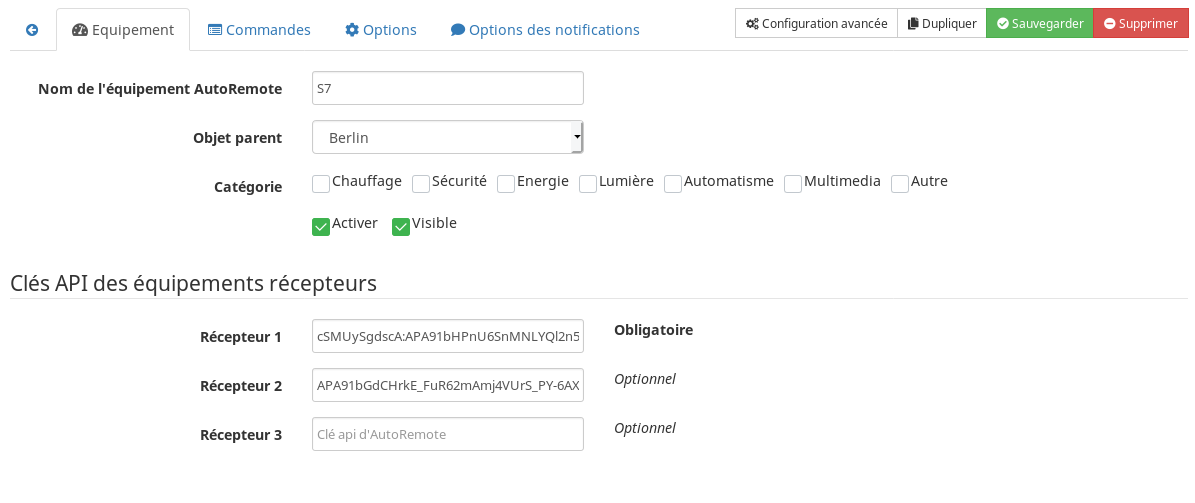
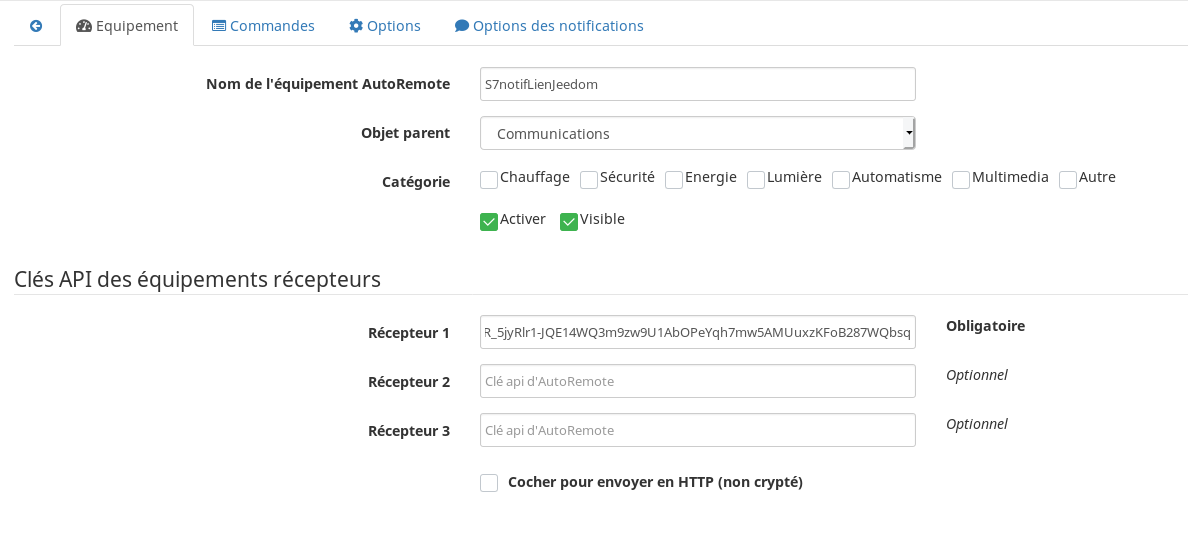
update doc and plugin info for 2.0.1 release

diff --git a/docs/fr_FR/index.md b/docs/fr_FR/index.md
@@ -3,18 +3,18 @@ Présentation et principe de fonctionnement
 
 Ce plugin vous permet de communiquer avec votre téléphone Android (ou autre équipement compatible) via le service AutoRemote.
 
-Vous pourrez ainsi envoyer des messages et les utiliser pour déclencher des actions sur votre équipement distant, grâce à Tasker,  ou vous pourrez directement envoyer une notification complètement personnalisée incluant des boutons d'actions.
+Vous pourrez ainsi envoyer des messages et les utiliser pour déclencher des actions sur votre équipement distant, grâce à Tasker, ou vous pourrez directement envoyer une notification complètement personnalisée incluant des boutons d'actions.
 
 Pour plus d'information à propos d'AutoRemote : <a href="http://joaoapps.com/autoremote/what-it-is/" target="_blank">AutoRemote</a>, et de Tasker : <a href="https://tasker.joaoapps.com/" target="_blank">Tasker</a>
 
 ![](https://raw.githubusercontent.com/AgP42/Jeedom-AutoRemote/master/docs/assets/images/Notif_1.jpg)
 ![](https://raw.githubusercontent.com/AgP42/Jeedom-AutoRemote/master/docs/assets/images/Notif_2.jpg)
 
-Le principe de fonctionnement du plugin est le suivant : 
+Le principe de fonctionnement du plugin est le suivant :
 
-- Chaque client contient les commandes "Envoyer un message" et "Envoyer une notification" avec des options spécifiques. 
+- Chaque client contient les commandes "Envoyer un message" et "Envoyer une notification" avec des options spécifiques.
 - Chaque client peut adresser ces messages à jusqu'à 3 destinataires pour chaque commande.
-- Les options peuvent être considerées comme des "valeurs par défaut", permettant de ne pas devoir les redéfinir à chaque fois qu'on utilise la commande (message ou notification) de ce client. 
+- Les options peuvent être considérées comme des "valeurs par défaut", permettant de ne pas devoir les redéfinir à chaque fois qu'on utilise la commande (message ou notification) de ce client.
 - A chaque utilisation d'une commande, il est possible "d'écraser" les valeurs par défaut en utilisant la synthaxe d'AutoRemote directement dans le champ "message" (voir les exemples à la fin)
 - Il est évidemment possible de définir une multitude de clients, chacun pouvant utiliser la même clef API pour envoyer des messages aux mêmes destinaires, mais avec des options pré-définies différentes.
 
@@ -24,8 +24,8 @@ Dans les messages et dans les notifications, il est possible de définir des act
 Installation du plugin via Github
 =================================
 
-1. Télécharger le zip contenant les sources sur github : <a href="https://github.com/AgP42/Jeedom-TaskerAutoremote/archive/master.zip" target="_blank">https://github.com/AgP42/Jeedom-TaskerAutoremote/archive/master.zip</a> 
-2. Il faut ensuite créer un dossier "TaskerAutoRemote" (les majuscules sont importantes) dans le dossier plugin de votre Jeedom, pour celà plusieurs possibilités : 
+1. Télécharger le zip contenant les sources sur github : <a href="https://github.com/AgP42/Jeedom-TaskerAutoremote/archive/master.zip" target="_blank">https://github.com/AgP42/Jeedom-TaskerAutoremote/archive/master.zip</a>
+2. Il faut ensuite créer un dossier "TaskerAutoRemote" (les majuscules sont importantes) dans le dossier plugin de votre Jeedom, pour celà plusieurs possibilités :
    - En FTP ou SSH, le dossier plugin se trouve dans /var/www/html/plugins (sur un RPI en tout cas...)
    - En utilisant le plugin "JeeXplorer" téléchargeable sur le market Jeedom, puis naviguer dans "plugin", créer le dossier et copier/coller les sources (dézippées)
 3. Dans Jeedom, aller dans "plugin"/"gestion des plugins", trouver TaskerAutoremote et activez le
@@ -60,6 +60,8 @@ Par exemple vous pouvez définir un client vers votre téléphone avec les optio
 
 Vous pouvez aussi définir plusieurs clients selon le son ou l'icône voulue sur la notification.
 
+Par défault les messages sont envoyés cryptés (https), si ne recevez pas les messages ([ERROR] : Erreur execution: ), vous pouvez choisir de ne pas utiliser la liaison crypté en cochant la case "Cocher pour envoyer en HTTP (non crypté)", le message sera alors transmis en http non crypté.
+
 Onglet Commandes
 -----------------
 ![](https://raw.githubusercontent.com/AgP42/Jeedom-AutoRemote/master/docs/assets/images/Commandes.png)
@@ -70,9 +72,9 @@ Chaque équipement contient les 2 commandes suivantes :
 - Envoyer message
 - Envoyer notification
 
-Il est possible de les renommer ou de les supprimer. Une fois supprimées elles ne peuvent pas être recréées. 
+Il est possible de les renommer ou de les supprimer. Une fois supprimées elles ne peuvent pas être recréées.
 
-Il est possible de tester ces commandes avec le bouton "tester", attention, le retour de Jeedom concerne l'appel de l'exécution de la commande qui sera donc (quasi) toujours un succès. En cas d'erreur dans l'execution de la requête elle-même, un message sera donné dans les logs et dans les messages de Jeedom : 
+Il est possible de tester ces commandes avec le bouton "tester", attention, le retour de Jeedom concerne l'appel de l'exécution de la commande qui sera donc (quasi) toujours un succès. En cas d'erreur dans l'execution de la requête elle-même, un message sera donné dans les logs et dans les messages de Jeedom :
 ![](https://raw.githubusercontent.com/AgP42/Jeedom-AutoRemote/master/docs/assets/images/erreur_clef.png)
 
 Attention, il n'est jamais possible d'utliser le symbole "&".
@@ -102,12 +104,12 @@ Pour l'action Tasker, il s'agit en fait du champs "message" qui doit donc être 
 Si l'URL et Action sont remplies, "Action" sera prioritaire.
 ![](https://raw.githubusercontent.com/AgP42/Jeedom-AutoRemote/master/docs/assets/images/opt_notif_btn.png)
 
-Il est possible d'ajouter jusqu'à 3 boutons d'actions dans le pied de la notification. Le champ "action associé" correspond à une action tasker, de même que les actions ci-dessus. 
+Il est possible d'ajouter jusqu'à 3 boutons d'actions dans le pied de la notification. Le champ "action associé" correspond à une action tasker, de même que les actions ci-dessus.
 
 ![](https://raw.githubusercontent.com/AgP42/Jeedom-AutoRemote/master/docs/assets/images/opt_notif_config&autre.png)
 
-Utilisez le champ "Autres" pour utiliser des options non détaillées ci-dessous. 
-Liste des options AutoRemote disponibles et non détaillées dans le plugin (copier/coller de la doc AutoRemote) : 
+Utilisez le champ "Autres" pour utiliser des options non détaillées ci-dessous.
+Liste des options AutoRemote disponibles et non détaillées dans le plugin (copier/coller de la doc AutoRemote) :
 
 - Dismiss On Touch - Fill any value to make the notification dismiss itself when touched - &dismissontouch=
 - Vibration Pattern - Similar to Tasker's Vibration Pattern - &vibration=
@@ -162,7 +164,7 @@ Les messages Jeedom avertissement des erreurs d'exécution ou de mises à jour d
 
 ![](https://raw.githubusercontent.com/AgP42/Jeedom-AutoRemote/master/docs/assets/images/message_logs.png)
 
-Avec ceci vous recevrez une notification "standard" d'AutoRemote contenant uniquement le titre et le message. 
+Avec ceci vous recevrez une notification "standard" d'AutoRemote contenant uniquement le titre et le message.
 
 Personnalisons-la un peu ! :
 
@@ -190,3 +192,8 @@ Testons tout ça :
 - Cliquez sur la notification : vous devez voir un pop-up indiquant "Purge des messages Jeedom demandée" et sur Jeedom, les messages sont vides.
 
 Evidemment si vous purgez un message "redondant", il reviendra constamment...
+
+(bonus 2) Configurer Tasker pour réagir aux messages ou notifications reçues
+-------------------------------------------------------
+
+Voir ici : <a href="https://forum.joaoapps.com/index.php?resources/tutorial-receive-featured-notifications-from-your-home-automatisation-system.393/" target="_blank">Tutorial - Receive featured notifications from your home automatisation system </a>

diff --git a/README.md b/README.md
@@ -15,8 +15,8 @@ Pour plus d’information à propos d’AutoRemote : http://joaoapps.com/autorem
 
 # Installation du plugin via Github
 
-1. Télécharger le zip contenant les sources sur github : <a href="https://github.com/AgP42/Jeedom-TaskerAutoremote/archive/master.zip" target="_blank">https://github.com/AgP42/Jeedom-TaskerAutoremote/archive/master.zip</a> 
-2. Il faut ensuite créer un dossier "TaskerAutoRemote" (les majuscules sont importantes) dans le dossier plugin de votre Jeedom, pour celà plusieurs possibilités : 
+1. Télécharger le zip contenant les sources sur github : <a href="https://github.com/AgP42/Jeedom-TaskerAutoremote/archive/master.zip" target="_blank">https://github.com/AgP42/Jeedom-TaskerAutoremote/archive/master.zip</a>
+2. Il faut ensuite créer un dossier "TaskerAutoRemote" (les majuscules sont importantes) dans le dossier plugin de votre Jeedom, pour celà plusieurs possibilités :
    - En FTP ou SSH, le dossier plugin se trouve dans /var/www/html/plugins (sur un RPI en tout cas...)
    - En utilisant le plugin "JeeXplorer" téléchargeable sur le market Jeedom, puis naviguer dans "plugin", créer le dossier et copier/coller les sources (dézippées)
 3. Dans Jeedom, aller dans "plugin"/"gestion des plugins", trouver TaskerAutoremote et activez le
